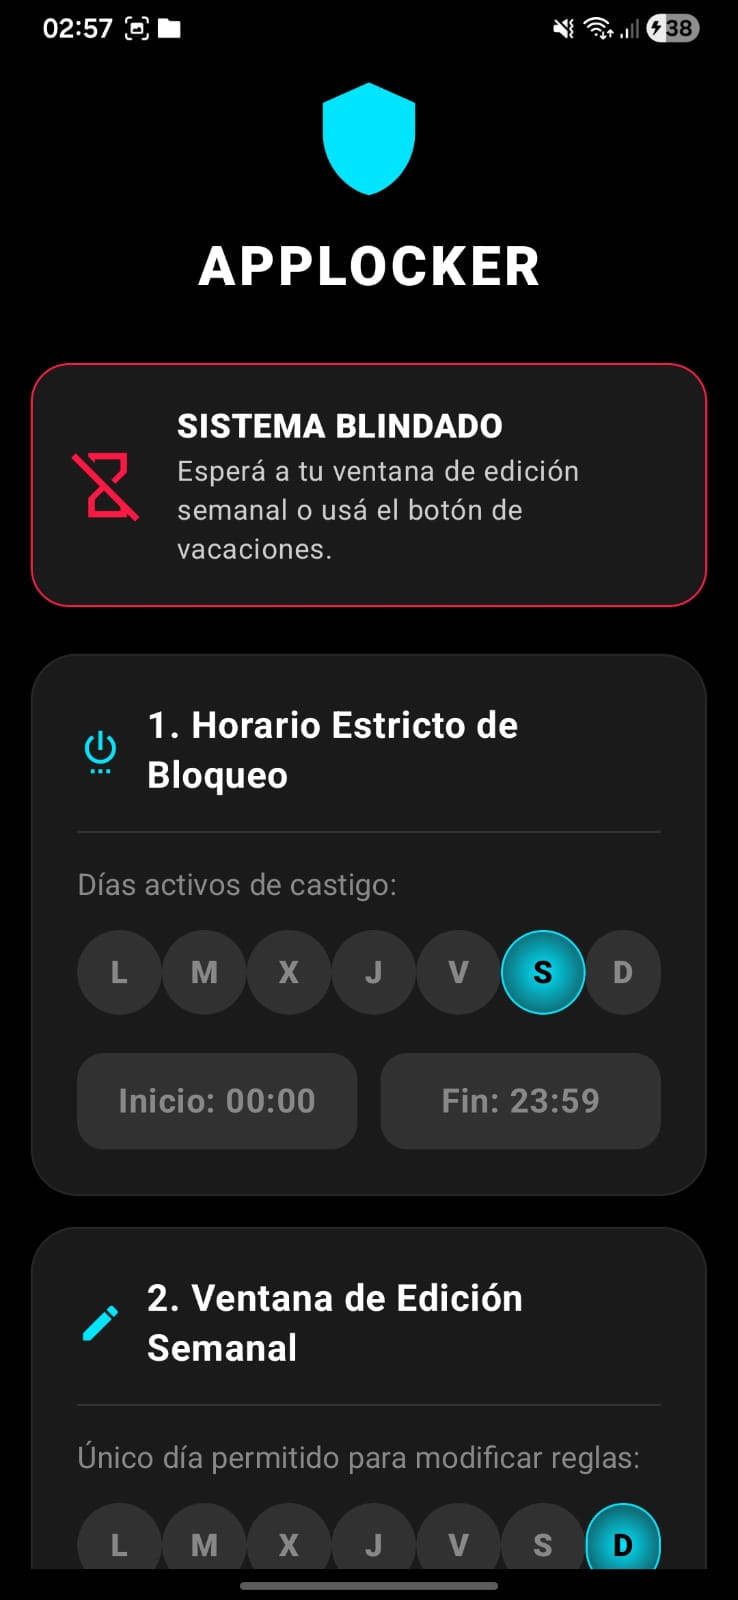
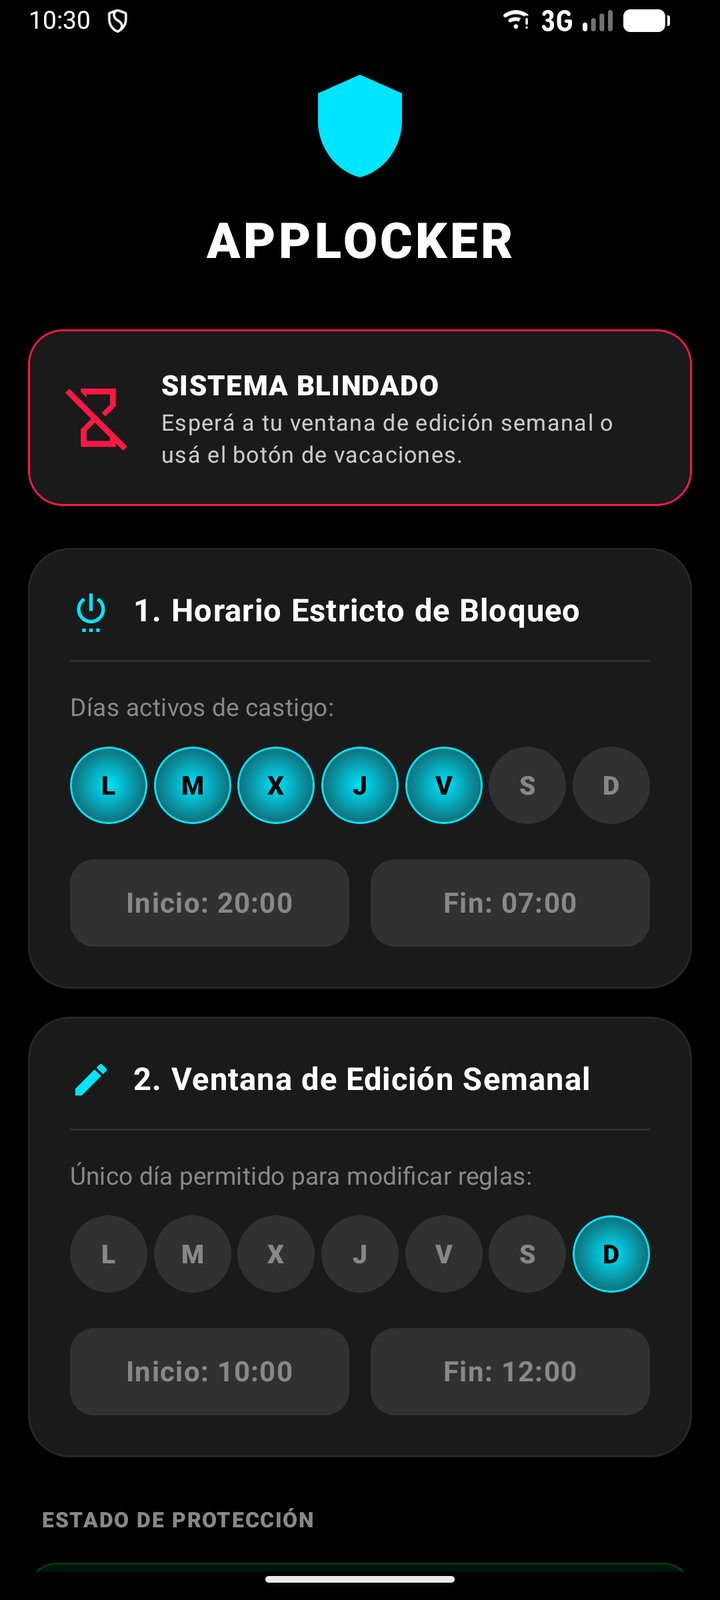
docs: actualizar las capturas del README
Las dos capturas anteriores eran de la versión previa. Ahora hay seis,
sacadas en un emulador con Android 16: reglas activas, estado de
protección, pantalla de bloqueo, aviso de servicio apagado, autenticador
del franco y diálogo para pedir un franco.

diff --git a/README.md b/README.md
@@ -10,10 +10,15 @@ Bloquea las apps que elijas en los días y horarios que definas. Para que el blo
 
 La desarrollé en marzo de 2026 para un amigo, que la usa en su Samsung Galaxy S23 Ultra (Android 16). No hay APK ni release publicado: se compila desde el código.
 
-<p>
-  <img src="docs/screenshots/01-inicio.jpeg" width="260" alt="Pantalla principal con el horario de bloqueo" />
-  <img src="docs/screenshots/02-proteccion.jpeg" width="260" alt="Ventana de edición y estado de protección" />
-</p>
+| Reglas activas | Estado de protección | App bloqueada |
+|:---:|:---:|:---:|
+| <img src="docs/screenshots/01-inicio.jpeg" width="240" alt="Pantalla principal con las reglas activas y la edición bloqueada" /> | <img src="docs/screenshots/02-proteccion.jpeg" width="240" alt="Ventana de edición y estado de protección con todos los permisos activos" /> | <img src="docs/screenshots/03-bloqueo.jpeg" width="240" alt="Pantalla roja de bloqueo al abrir una app elegida" /> |
+
+| Servicio apagado | Autenticador del franco | Pedir un franco |
+|:---:|:---:|:---:|
+| <img src="docs/screenshots/04-onboarding.jpeg" width="240" alt="Aviso para activar el servicio de accesibilidad" /> | <img src="docs/screenshots/05-autenticador.jpeg" width="240" alt="Código QR para configurar la app de autenticación" /> | <img src="docs/screenshots/06-franco.jpeg" width="240" alt="Diálogo para ingresar el código del franco" /> |
+
+<sub>Capturas de un emulador con Android 16 (API 36). El QR corresponde a una configuración de prueba.</sub>
 
 ---
 
